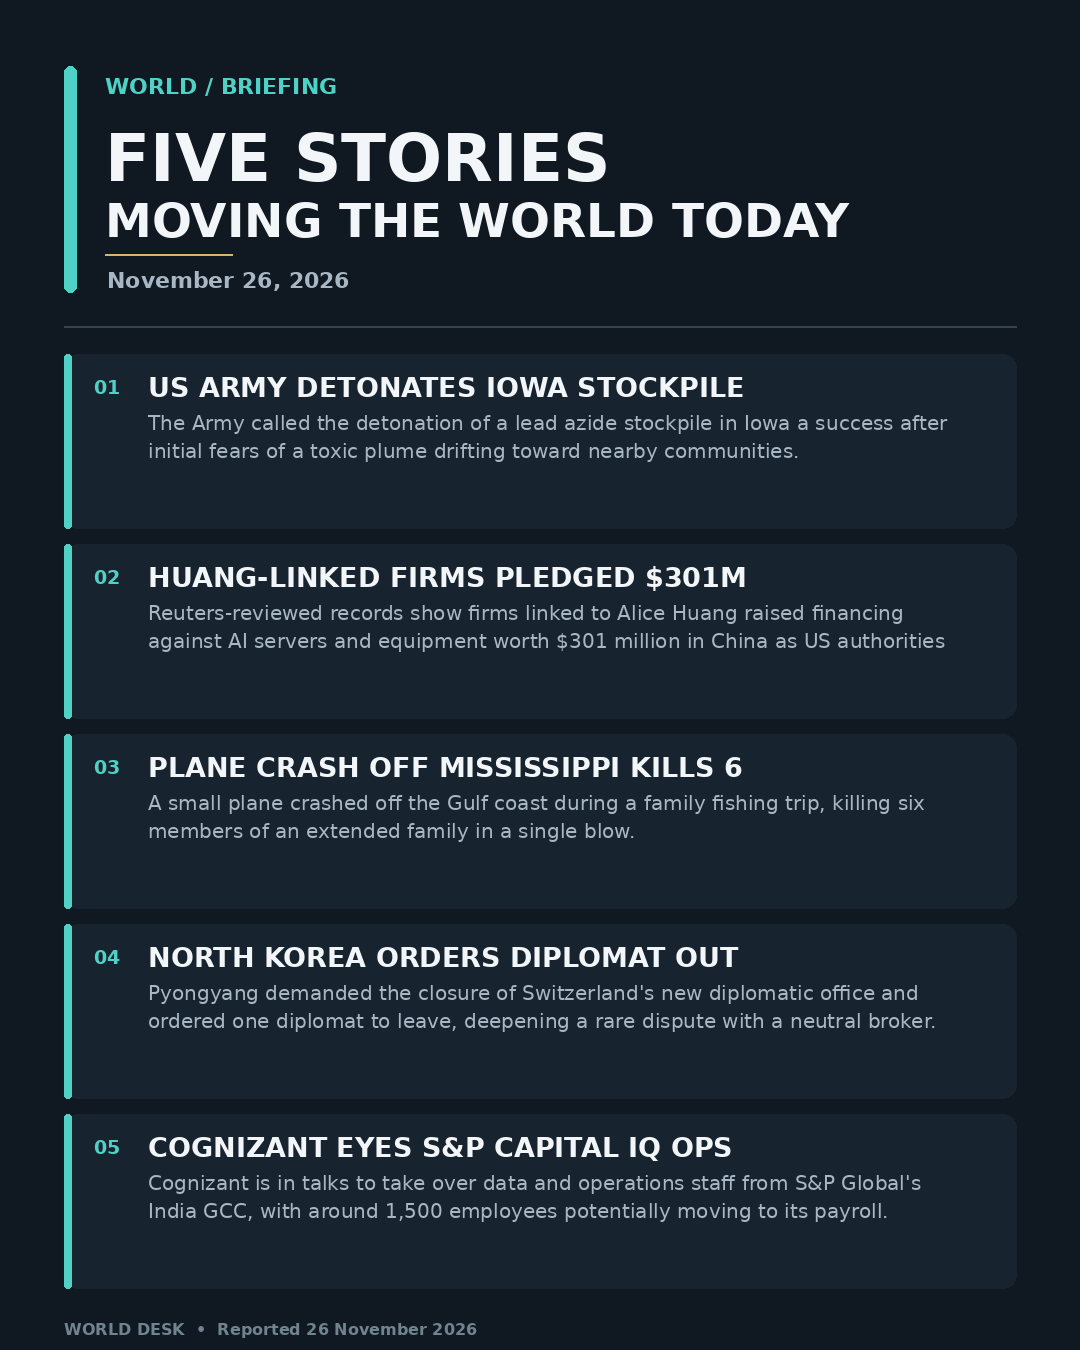
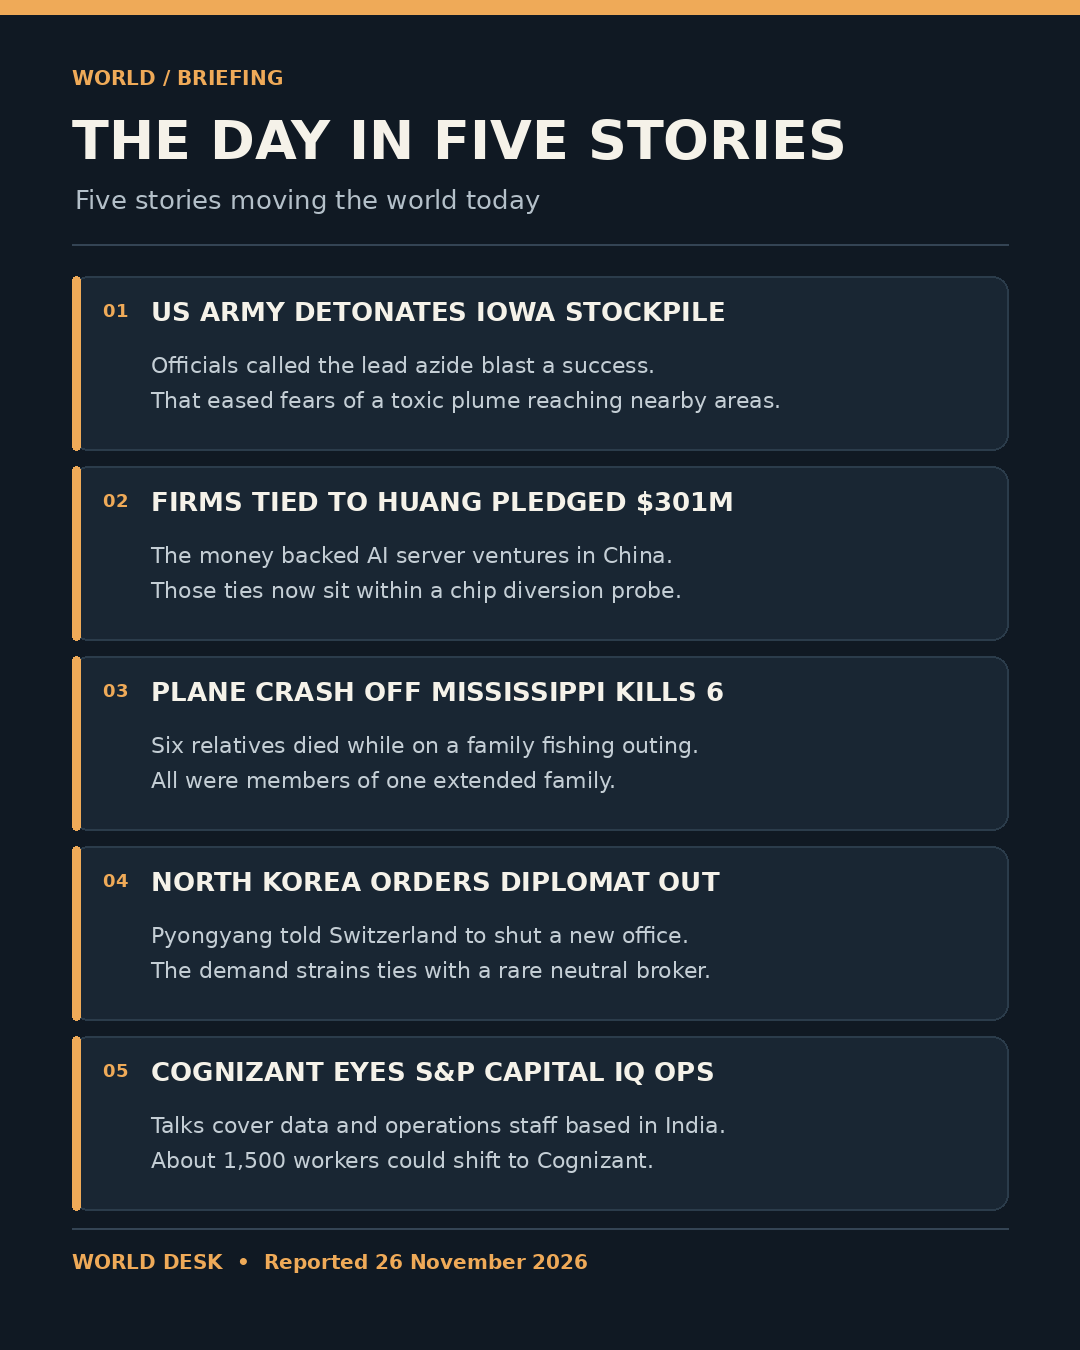
compact rewrite

Changed region(s): [[0.0, 0.0, 1.0, 0.9956]]

diff --git a/main.py b/main.py
@@ -1,92 +1,40 @@
-#!/usr/bin/env python3
-"""Render a compact editorial briefing as a 1080x1350 PNG."""
+from pathlib import Path
 import os
 from PIL import Image, ImageDraw, ImageFont
 
 W, H = 1080, 1350
-BG = "#101822"
-PANEL = "#17232e"
-INK = "#f3f6f8"
-MUTED = "#a8b7c4"
-TEAL = "#4fd1c5"
-
-STORIES = [
-    ("US ARMY DETONATES IOWA STOCKPILE", "The Army called the detonation of a lead azide stockpile in Iowa a success after initial fears of a toxic plume drifting toward nearby communities."),
-    ("HUANG-LINKED FIRMS PLEDGED $301M", "Reuters-reviewed records show firms linked to Alice Huang raised financing against AI servers and equipment worth $301 million in China as US authorities probe suspected chip diversion."),
-    ("PLANE CRASH OFF MISSISSIPPI KILLS 6", "A small plane crashed off the Gulf coast during a family fishing trip, killing six members of an extended family in a single blow."),
-    ("NORTH KOREA ORDERS DIPLOMAT OUT", "Pyongyang demanded the closure of Switzerland's new diplomatic office and ordered one diplomat to leave, deepening a rare dispute with a neutral broker."),
-    ("COGNIZANT EYES S&P CAPITAL IQ OPS", "Cognizant is in talks to take over data and operations staff from S&P Global's India GCC, with around 1,500 employees potentially moving to its payroll."),
-]
-
+out = Path(os.getenv("MAKEFUN_OUTPUT_DIR", "out"))
+out.mkdir(parents=True, exist_ok=True)
+im = Image.new("RGB", (W, H), "#101923")
+d = ImageDraw.Draw(im)
 
 def font(size, bold=False):
-    regular = "/usr/share/fonts/truetype/dejavu/DejaVuSans.ttf"
-    strong = "/usr/share/fonts/truetype/dejavu/DejaVuSans-Bold.ttf"
-    mac_regular = "/Library/Fonts/Arial.ttf"
-    mac_bold = "/Library/Fonts/Arial Bold.ttf"
-    for path in (strong if bold else regular, mac_bold if bold else mac_regular):
-        if os.path.exists(path):
-            return ImageFont.truetype(path, size)
-    return ImageFont.load_default()
+    name = "/usr/share/fonts/truetype/dejavu/DejaVuSans-Bold.ttf" if bold else "/usr/share/fonts/truetype/dejavu/DejaVuSans.ttf"
+    return ImageFont.truetype(name, size)
 
+d.rectangle((0, 0, W, 14), fill="#efaa58")
+d.text((72, 66), "WORLD / BRIEFING", font=font(20, True), fill="#efaa58")
+d.text((72, 108), "THE DAY IN FIVE STORIES", font=font(54, True), fill="#f5f2e9")
+d.text((75, 184), "Five stories moving the world today", font=font(26), fill="#b4c0c9")
+d.line((72, 244, 1008, 244), fill="#344454", width=2)
 
-def wrap(draw, text, face, width):
-    words = text.split()
-    lines = []
-    current = ""
-    for word in words:
-        candidate = f"{current} {word}".strip()
-        if draw.textlength(candidate, font=face) <= width:
-            current = candidate
-        else:
-            if current:
-                lines.append(current)
-            current = word
-    if current:
-        lines.append(current)
-    return lines
+stories = [
+    ("US ARMY DETONATES IOWA STOCKPILE", "Officials called the lead azide blast a success.", "That eased fears of a toxic plume reaching nearby areas."),
+    ("FIRMS TIED TO HUANG PLEDGED $301M", "The money backed AI server ventures in China.", "Those ties now sit within a chip diversion probe."),
+    ("PLANE CRASH OFF MISSISSIPPI KILLS 6", "Six relatives died while on a family fishing outing.", "All were members of one extended family."),
+    ("NORTH KOREA ORDERS DIPLOMAT OUT", "Pyongyang told Switzerland to shut a new office.", "The demand strains ties with a rare neutral broker."),
+    ("COGNIZANT EYES S&P CAPITAL IQ OPS", "Talks cover data and operations staff based in India.", "About 1,500 workers could shift to Cognizant."),
+]
+top, card_h, gap = 276, 174, 16
+for i, (title, line1, line2) in enumerate(stories, 1):
+    y = top + (i - 1) * (card_h + gap)
+    d.rounded_rectangle((72, y, 1008, y + card_h), radius=16, fill="#192633", outline="#2b3c4b", width=2)
+    d.rounded_rectangle((72, y, 80, y + card_h), radius=4, fill="#efaa58")
+    d.text((103, y + 24), f"0{i}", font=font(18, True), fill="#efaa58")
+    d.text((151, y + 20), title, font=font(26, True), fill="#f5f2e9")
+    d.text((151, y + 76), line1, font=font(22), fill="#c4ced5")
+    d.text((151, y + 111), line2, font=font(22), fill="#c4ced5")
 
-
-def draw_story(draw, index, story, top, title_face, body_face):
-    headline, summary = story
-    bottom = top + 174
-    draw.rounded_rectangle((64, top, 1016, bottom), radius=14, fill=PANEL)
-    draw.rounded_rectangle((64, top, 71, bottom), radius=3, fill=TEAL)
-    draw.text((94, top + 22), f"{index:02d}", font=font(19, True), fill=TEAL)
-
-    text_x = 148
-    headline_lines = wrap(draw, headline, title_face, 820)
-    for row, line in enumerate(headline_lines):
-        draw.text((text_x, top + 17 + row * 34), line, font=title_face, fill=INK)
-
-    summary_top = top + 17 + max(1, len(headline_lines)) * 34 + 6
-    for row, line in enumerate(wrap(draw, summary, body_face, 820)[:2]):
-        draw.text((text_x, summary_top + row * 28), line, font=body_face, fill=MUTED)
-
-
-def main():
-    image = Image.new("RGB", (W, H), BG)
-    draw = ImageDraw.Draw(image)
-
-    draw.rounded_rectangle((64, 66, 76, 292), radius=6, fill=TEAL)
-    draw.text((105, 73), "WORLD / BRIEFING", font=font(22, True), fill=TEAL)
-    draw.text((105, 119), "FIVE STORIES", font=font(66, True), fill=INK)
-    draw.text((105, 193), "MOVING THE WORLD TODAY", font=font(47, True), fill=INK)
-    draw.line((105, 254, 232, 254), fill="#d8b46a", width=2)
-    draw.text((107, 267), "November 26, 2026", font=font(22, True), fill=MUTED)
-    draw.line((64, 326, 1016, 326), fill="#344552", width=2)
-
-    title_face, body_face = font(27, True), font(20)
-    top = 354
-    for index, story in enumerate(STORIES, 1):
-        draw_story(draw, index, story, top, title_face, body_face)
-        top += 190
-
-    draw.text((64, 1320), "WORLD DESK  •  Reported 26 November 2026", font=font(16, True), fill="#708391")
-    output = os.environ.get("MAKEFUN_OUTPUT_DIR", ".")
-    os.makedirs(output, exist_ok=True)
-    image.save(os.path.join(output, "entry.png"), format="PNG", optimize=True)
-
-
-if __name__ == "__main__":
-    main()
+d.line((72, 1228, 1008, 1228), fill="#344454", width=2)
+d.text((72, 1250), "WORLD DESK  •  Reported 26 November 2026", font=font(20, True), fill="#efaa58")
+im.save(out / "entry.png")
